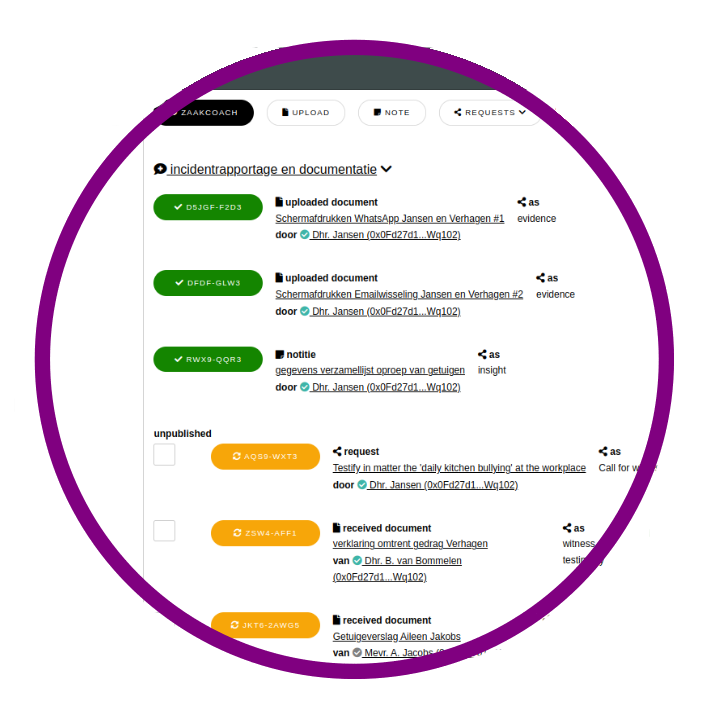
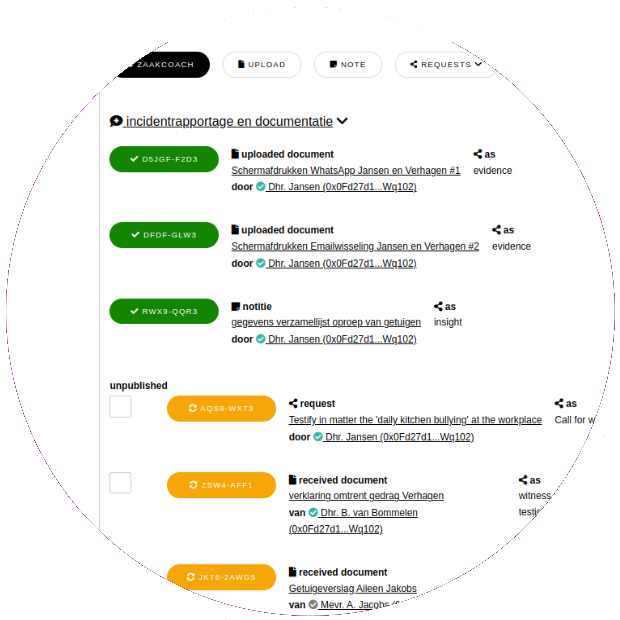
finetune

Changed region(s): [[0.0306, 0.0306, 0.9806, 1.0], [0.1532, 0.4597, 0.7355, 0.5823]]

diff --git a/index.html b/index.html
@@ -164,30 +164,32 @@
                 
                 <div class="items style3 big onscroll-fade-in">
 
+                        <section>
+                            <div class="image fit purple-circle">
+                                <img src="../images/owd.png" alt="" />
+                            </div>
+                        </section>
                     
-                        <div class="image fit">
-                            <img src="../images/owd.png" alt="" />
-                        </div>
+                        <section>
                     
-
-                    
-                        <div class="content">
-                            <h3><span class="highlighted">Essence</span> meets Open World Design</h3>
-                            <p>
-                                The Open World Design is where we redefine possibilities on the blockchain. Our accelerator program
-                                operates on a high-level architecture, empowering contributors to harness blockchain technology using open-source
-                                building blocks. We facilitate the seamless integration of application-specific data structures, security, data providers,
-                                storage, and analytical components. Rooted in a modern approach to storing intellectual property within customizable
-                                structures, we pioneer Web3 innovation. Here, creators craft transformative solutions that transcend traditional
-                                limitations.
-                            </p>
-                        </div>
+                            <div class="content">
+                                <h3><span class="highlighted">Essence</span> meets Open World Design</h3>
+                                <p>
+                                    The Open World Design is where we redefine possibilities on the blockchain. Our accelerator program
+                                    operates on a high-level architecture, empowering contributors to harness blockchain technology using open-source
+                                    building blocks. We facilitate the seamless integration of application-specific data structures, security, data providers,
+                                    storage, and analytical components. Rooted in a modern approach to storing intellectual property within customizable
+                                    structures, we pioneer Web3 innovation. Here, creators craft transformative solutions that transcend traditional
+                                    limitations.
+                                </p>
+                            </div>
+                        </section>
                     
                     
 
 
                     <section>
-                        <div class="image fit">
+                        <div class="image fit purple-circle">
                             <img src="../images/records.png" alt="" />
                         </div>
                     </section>
@@ -214,7 +216,7 @@
                     </section>
 
                     <section>
-                        <div class="image fit">
+                        <div class="image fit purple-circle">
                             <img src="../images/noodle.png" alt="" />
                         </div>
                     </section>
